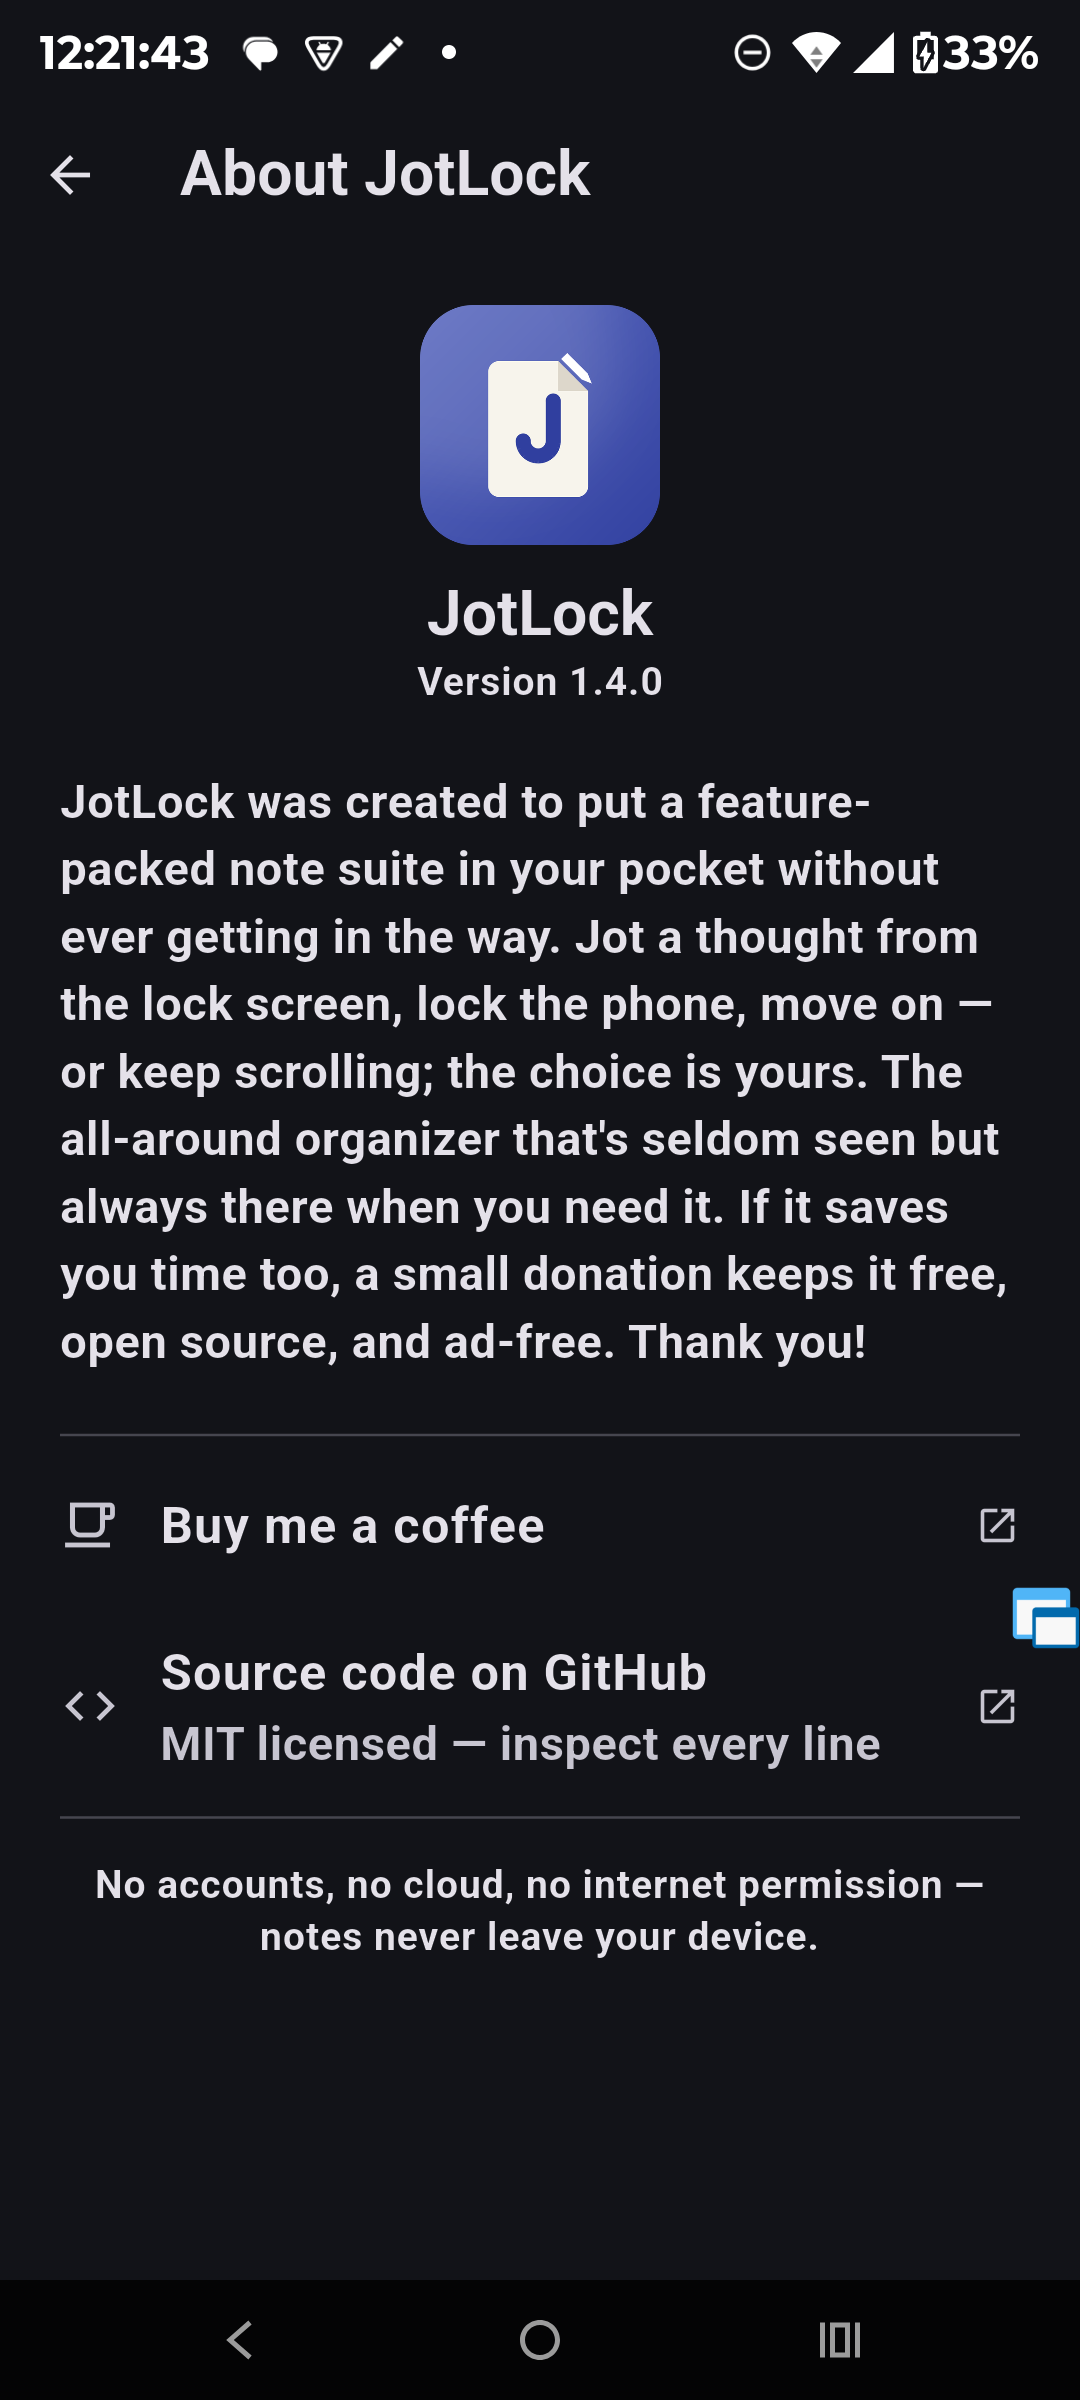
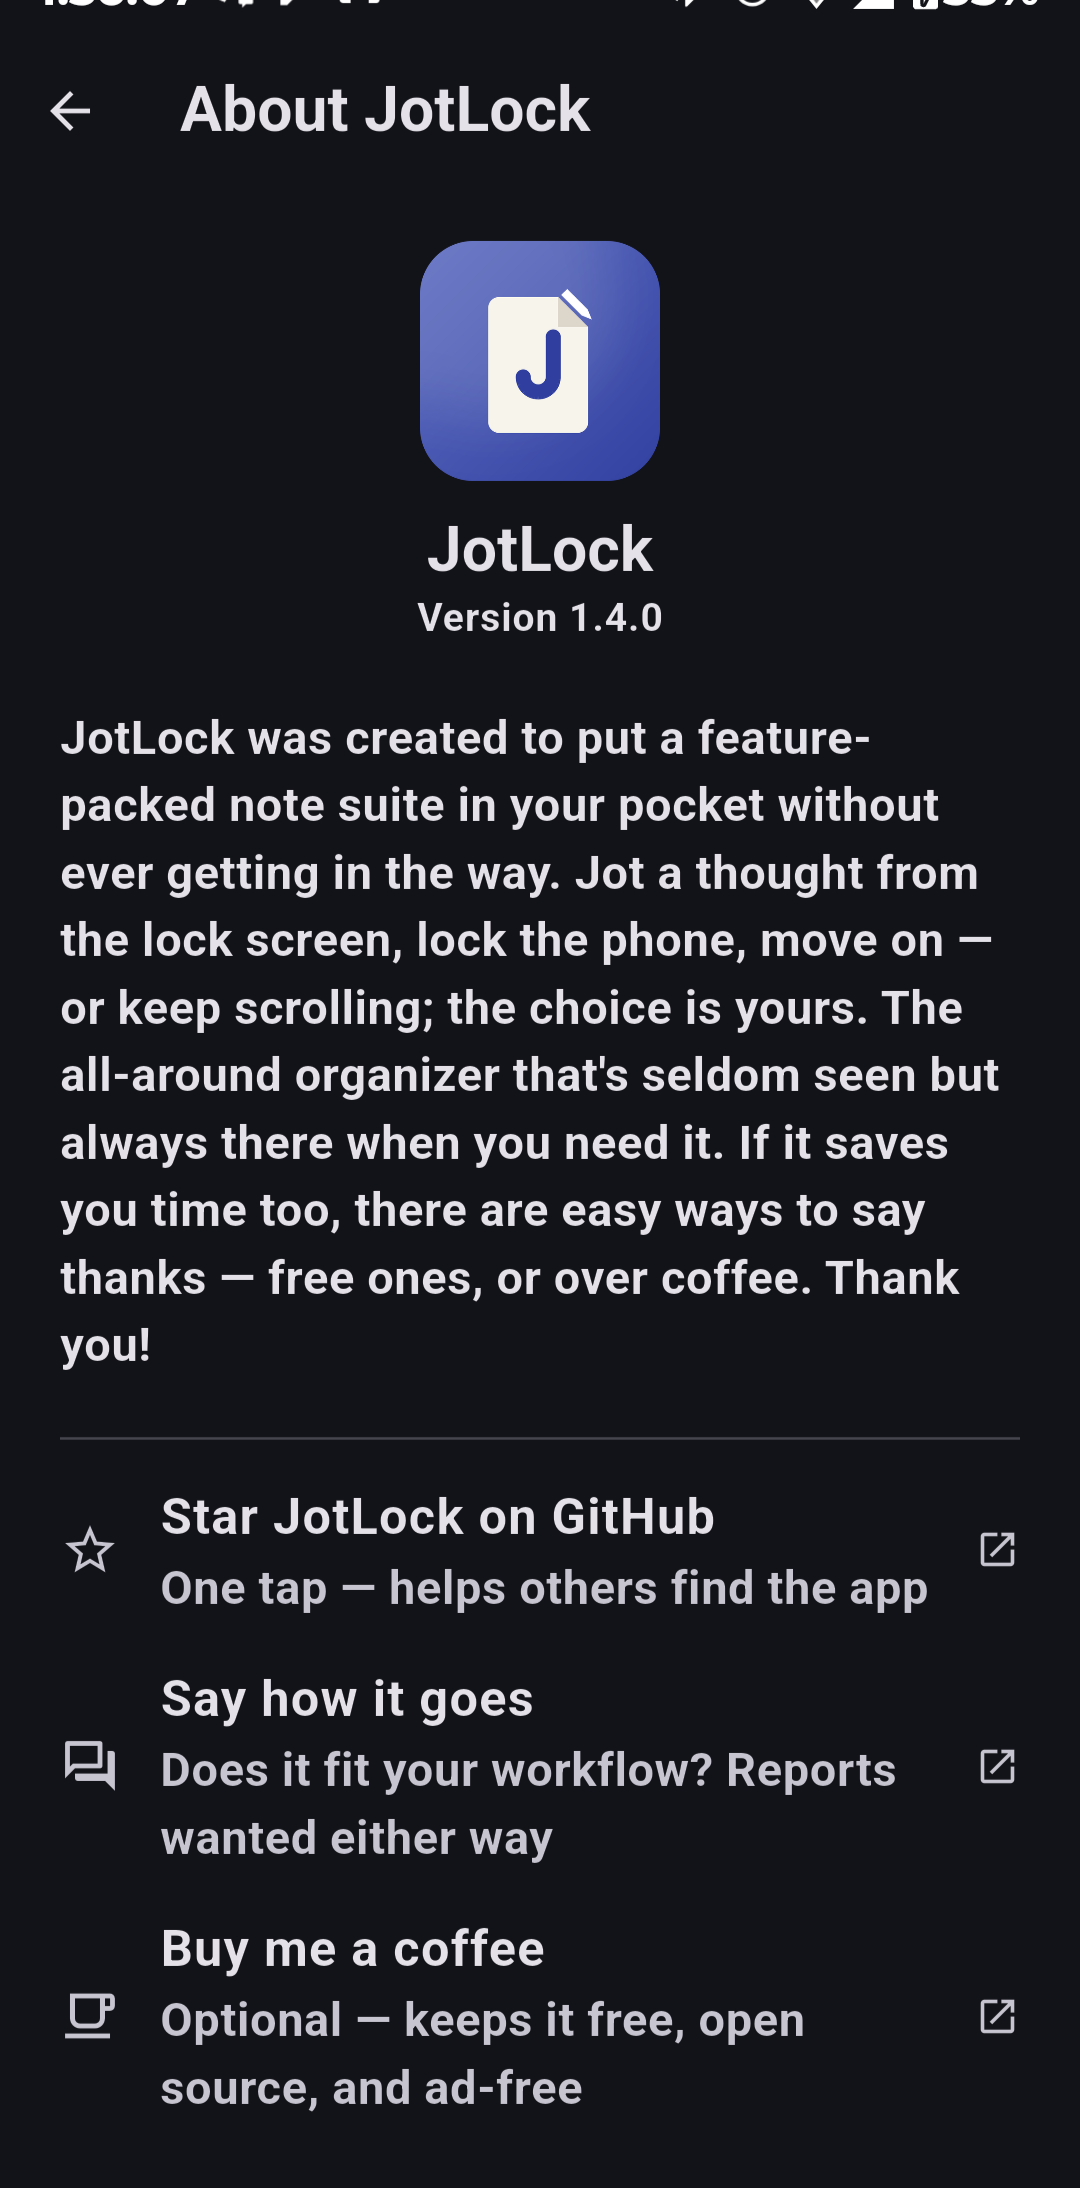
Support: free-first give-back ladder — About page gains star/discussions/coffee tiles with subtitles, README swaps donation ask for ways-to-give-back, refreshed About screenshot; ignore DISTRIBUTION_ROUTES.md + backup exports

diff --git a/lib/main.dart b/lib/main.dart
@@ -1908,10 +1908,11 @@ class _BackgroundTileState extends State<_BackgroundTile> {
 /// About page content — edit these three values to update what users see.
 /// Links open in the browser; the app itself stays offline.
 class _SupportLink {
-  const _SupportLink(this.label, this.url, {required this.icon});
+  const _SupportLink(this.label, this.url, {required this.icon, this.subtitle});
   final String label;
   final String url;
   final IconData icon;
+  final String? subtitle;
 }
 
 const String _aboutMessage =
@@ -1919,14 +1920,27 @@ const String _aboutMessage =
     'without ever getting in the way. Jot a thought from the lock screen, '
     'lock the phone, move on — or keep scrolling; the choice is yours. '
     'The all-around organizer that\'s seldom seen but always there when you '
-    'need it. If it saves you time too, a small donation keeps it free, '
-    'open source, and ad-free. Thank you!';
+    'need it. If it saves you time too, there are easy ways to say thanks — '
+    'free ones, or over coffee. Thank you!';
 
 const List<_SupportLink> _supportLinks = [
+  _SupportLink(
+    'Star JotLock on GitHub',
+    'https://github.com/Ryfire/jotlock',
+    icon: Icons.star_border,
+    subtitle: 'One tap — helps others find the app',
+  ),
+  _SupportLink(
+    'Say how it goes',
+    'https://github.com/Ryfire/jotlock/discussions',
+    icon: Icons.forum_outlined,
+    subtitle: 'Does it fit your workflow? Reports wanted either way',
+  ),
   _SupportLink(
     'Buy me a coffee',
     'https://buymeacoffee.com/JameyR',
     icon: Icons.local_cafe_outlined,
+    subtitle: 'Optional — keeps it free, open source, and ad-free',
   ),
 ];
 
@@ -1999,6 +2013,7 @@ class _AboutPageState extends State<AboutPage> {
               contentPadding: EdgeInsets.zero,
               leading: Icon(link.icon),
               title: Text(link.label),
+              subtitle: link.subtitle != null ? Text(link.subtitle!) : null,
               trailing: const Icon(Icons.open_in_new, size: 18),
               onTap: () => _open(link.url),
             ),

diff --git a/README.md b/README.md
@@ -146,7 +146,8 @@ to look.
 ### Free, open source, and ad-free
 
 The info icon in the app bar opens **About & support** — a note from the
-developer, donation links, and the GitHub source.
+developer, ways to give back (star the repo, share feedback, or donate), and
+the GitHub source.
 
 Where this stands: JotLock is an experiment, and it's genuinely unclear how
 far the concept stretches. Lock-screen capture might be a novelty for most
@@ -158,8 +159,15 @@ And if you run a capture system properly (GTD or otherwise): pushback
 wanted. Does capture-at-lock-screen fit your workflow, or does it just
 encourage unprocessed inbox pileup?
 
-If JotLock saves you time, a small donation keeps it free, open source, and
-ad-free.
+If JotLock saves you time, here are easy ways to give back — all optional,
+all appreciated:
+
+- **★ Star the repo** — free, and it's how people discover small FOSS apps
+- **Tell someone** — word of mouth is how they grow
+- **[Say how it goes](../../discussions)** — device reports and workflow
+  pushback wanted either way
+- **[Buy me a coffee](https://buymeacoffee.com/JameyR)** — if paying suits
+  you better: a small donation keeps it free, open source, and ad-free
 
 <p align="center">
   <img src="screenshots/09_about_support.png" alt="The About & support page" width="380">
@@ -185,7 +193,7 @@ ad-free.
 | **Copy / share** | Copy any note to the clipboard, or share it out. JotLock also accepts text sent **in** from the share sheet and the text-selection menu. |
 | **Export / import** | JSON backup (share it anywhere) and a readable text export. |
 | **Notification toggle** | Don't want the persistent card? Turn it off in settings; it returns on next launch. |
-| **About & support** | The info icon in the app bar opens a developer note, support links, and the GitHub source. |
+| **About & support** | The info icon in the app bar opens a developer note, ways to support the app, and the GitHub source. |
 | **Polish** | Material 3, light/dark, adaptive + themed icons, undo snackbar after deletes. |
 
 ---
@@ -277,7 +285,7 @@ The reminder sound itself (what "play sound" uses) is set in Settings →
 - **Tap a note** to edit · **Tap a checkbox** to check it off · **Copy** / **Delete** icons on each note
 - **Long-press** for the full menu: *Edit · Pin · Copy · Remind me… · Priority color · Share · Delete*
 - **Magnifier** to search · **＋ New note** to add
-- **Info icon** — About & support: a note from the developer, donation links, and the source code
+- **Info icon** — About & support: a note from the developer, ways to support the app, and the source code
 
 ---
 
